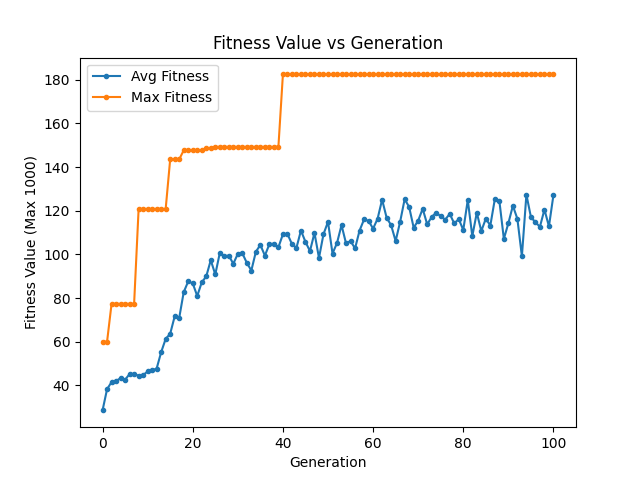
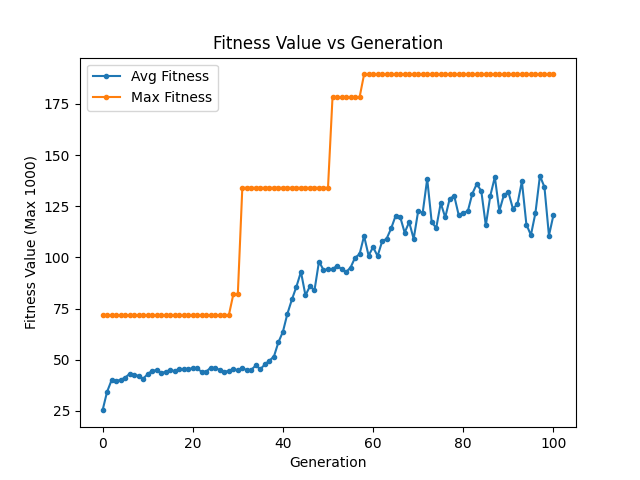
Tried various one point but no better results

diff --git a/GEP.py b/GEP.py
@@ -457,7 +457,7 @@ class GeneExpressionProgramming():
                     second_parent = recombination_pool[1]
 
                 #Head and tail domain recombination
-                recombination_start_index = random.randint(1, self.chrom_length - 2)
+                recombination_start_index = random.randint(1, self.chrom_length+self.dc_length - 2)
                 #recombination_start_index = random.randint(1, len(chromosome)-2)
                 first_child = first_parent[0:recombination_start_index]
                 second_child = second_parent[0:recombination_start_index]
@@ -471,17 +471,21 @@ class GeneExpressionProgramming():
                     second_child.append(element)
 
                 #Constant domain recombination
-                recombination_start_index_dc = random.randint(self.chrom_length+1, self.chrom_length+self.dc_length-2)
-                first_child = first_parent[0:recombination_start_index_dc]
-                second_child = second_parent[0:recombination_start_index_dc]
-
-                first_cross = first_parent[recombination_start_index_dc:]
-                second_cross = second_parent[recombination_start_index_dc:]
-
-                for element in second_cross:
-                    first_child.append(element)
-                for element in first_cross:
-                    second_child.append(element)
+                # recombination_start_index_dc = random.randint(self.chrom_length+1, self.chrom_length+self.dc_length-2)
+                # first_child_dc = first_parent[self.chrom_length:recombination_start_index_dc]
+                # second_child_dc = second_parent[self.chrom_length:recombination_start_index_dc]
+                # for element in first_child_dc:
+                #     first_child.append(element)
+                # for element in second_child_dc:
+                #     second_child.append(element)
+                #
+                # first_cross = first_parent[recombination_start_index_dc:]
+                # second_cross = second_parent[recombination_start_index_dc:]
+                #
+                # for element in second_cross:
+                #     first_child.append(element)
+                # for element in first_cross:
+                #     second_child.append(element)
                 ######
 
                 new_population.append(first_child.copy())
